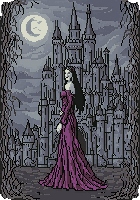
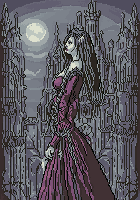
Vampire portrait redo (s450), inventor portrait experiments

diff --git a/tools/inventor_art.py b/tools/inventor_art.py
@@ -50,6 +50,33 @@ def portrait():
     print("saved portrait", flush=True)
 
 
+def portrait_v2(tag):
+    """A cleaner redo: simple clear pose, one character, the arm and pistol readable."""
+    body = {
+        "description": (
+            "cartoon character design portrait of one glamorous steampunk woman inventor standing in a confident three-quarter pose, "
+            "left hand on her hip, right arm is a brass clockwork mechanical arm with visible gears raised holding an ornate brass "
+            "ray pistol pointed upward, clever smirk, long dark auburn hair in loose curls, small tilted black top hat with brass "
+            "goggles with teal lenses, black lace choker with a brass gear, brown leather corset with brass buckles over a black "
+            "ruffled blouse, long black and oxblood bustle skirt, black lace-up boots, foggy Victorian city with airships and "
+            "copper pipes behind her, warm brass and teal palette, bold clean outlines, cel shading, "
+            "anatomically correct, exactly two arms, exactly two legs, five fingers"
+        ),
+        "image_size": {"width": 140, "height": 200},
+        "no_background": False,
+        "outline": "single color black outline",
+        "shading": "flat shading",
+        "detail": "highly detailed",
+        "view": "side",
+        "negative_description": "text, watermark, multiple characters, chibi, big head, nudity, exposed chest, extra limbs, "
+                                "extra legs, extra arms, duplicated limbs, deformed hands, plain grey background",
+    }
+    r = gen.call("POST", "/create-image-bitforge", body)
+    gen.log_charge(f"inventor portrait v2 {tag}", r.get("usage"))
+    gen.save_b64(r["image"], gen.d_of("inventor") / f"portrait_v2_{tag}.png")
+    print("saved portrait v2", tag, flush=True)
+
+
 def sprite():
     gen.character("inventor", f"{SPRITE}, {HEADS}", 48, "realistic_female", "")
 
@@ -69,4 +96,4 @@ def review():
 
 
 if __name__ == "__main__":
-    {"portrait": portrait, "sprite": sprite, "anims": anims, "review": review}[sys.argv[1]]()
+    {"portrait": portrait, "portrait2": lambda: [portrait_v2(t) for t in "abc"], "sprite": sprite, "anims": anims, "review": review}[sys.argv[1]]()

diff --git a/tools/pack.py b/tools/pack.py
@@ -371,7 +371,7 @@ def pack_items():
         print("item", n, im.size)
     # Class-select portraits (tools/vampire_art.py): full size; a flat grey background is keyed out.
     # Cleaned-up versions (tools/portrait_fix.py); originals live in reference/portraits_original/.
-    for n, src in [("portrait_vampire", "portrait_fix/vampire_s200.png"), ("portrait_sorceress", "portrait_fix/sorceress_s300.png"),
+    for n, src in [("portrait_vampire", "portrait_fix/vampire_s450.png"), ("portrait_sorceress", "portrait_fix/sorceress_s300.png"),
                    ("portrait_inventor", "portrait_fix/inventor_s300.png")]:
         p = GEN / src
         if not p.exists():
